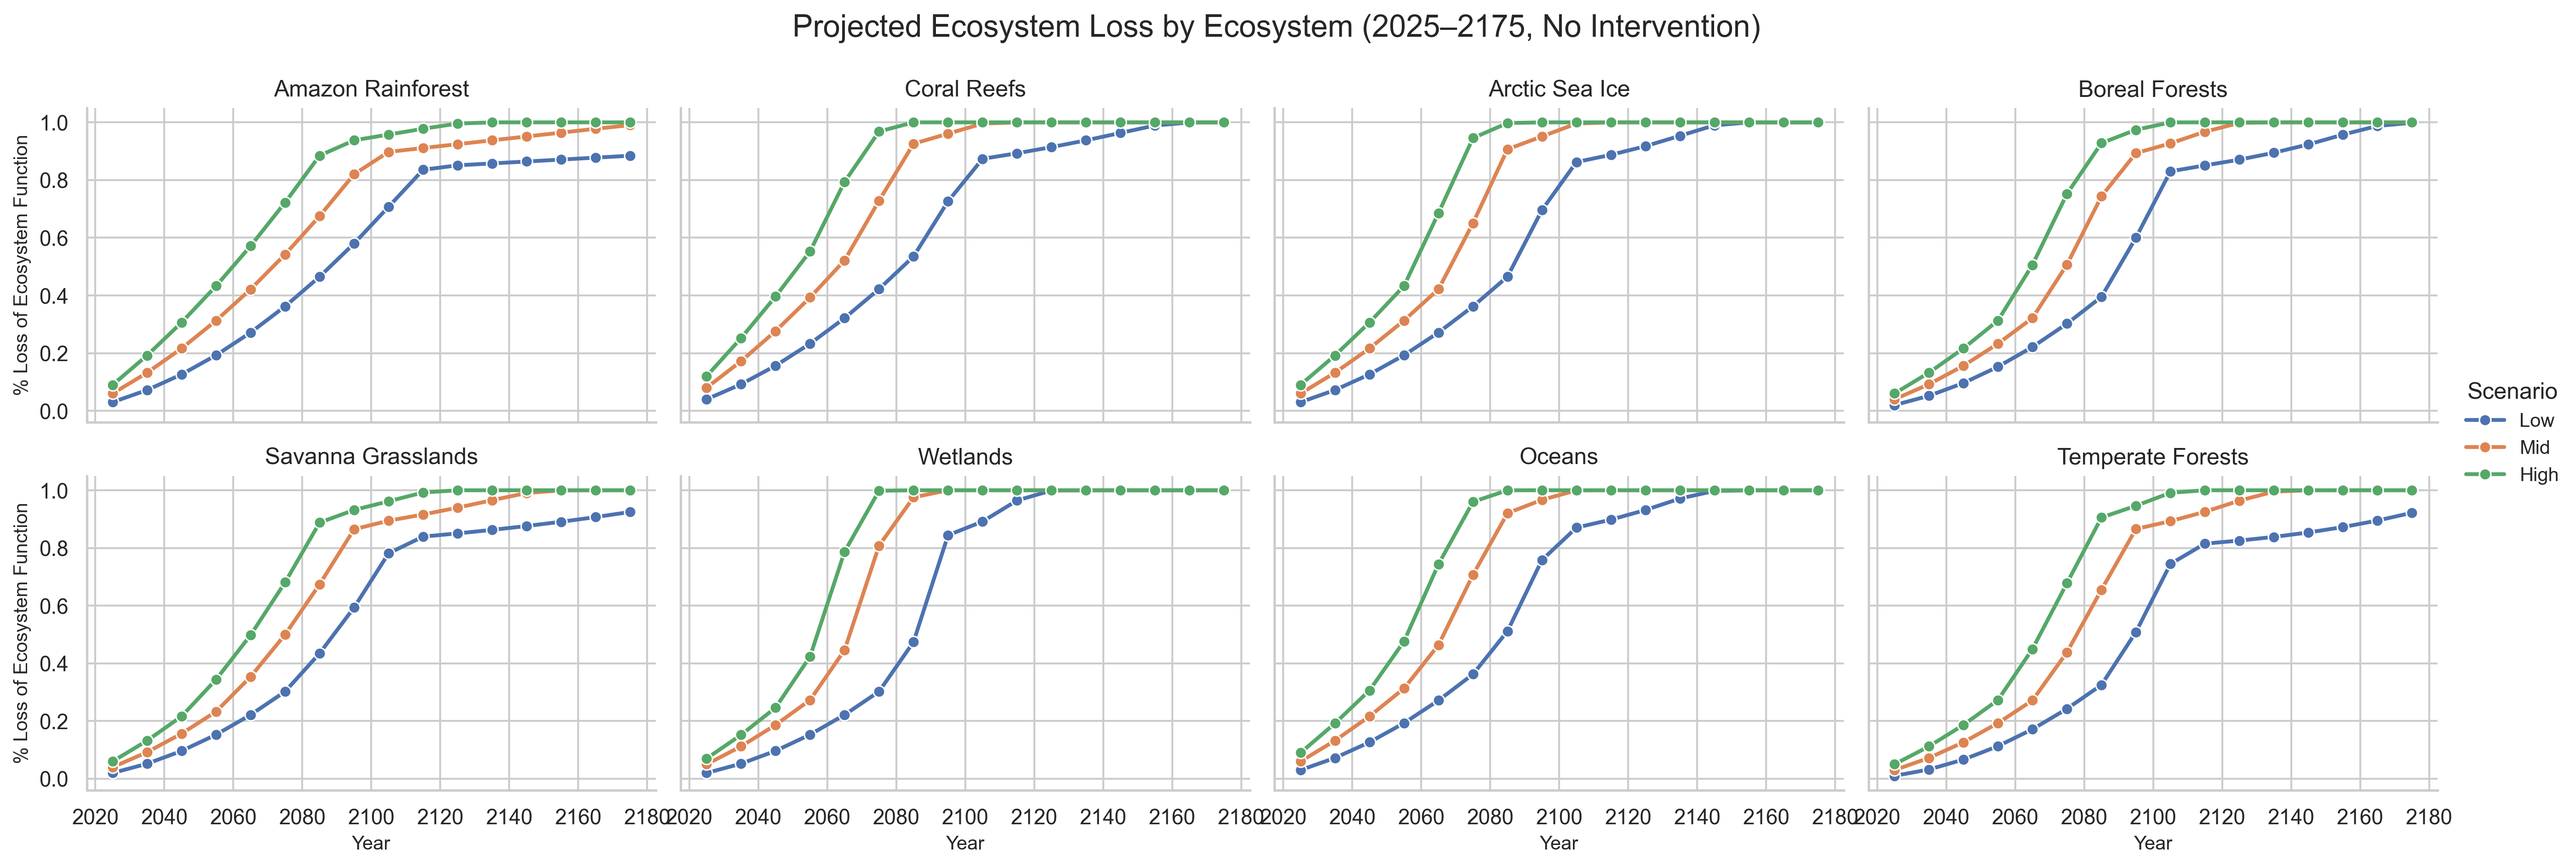
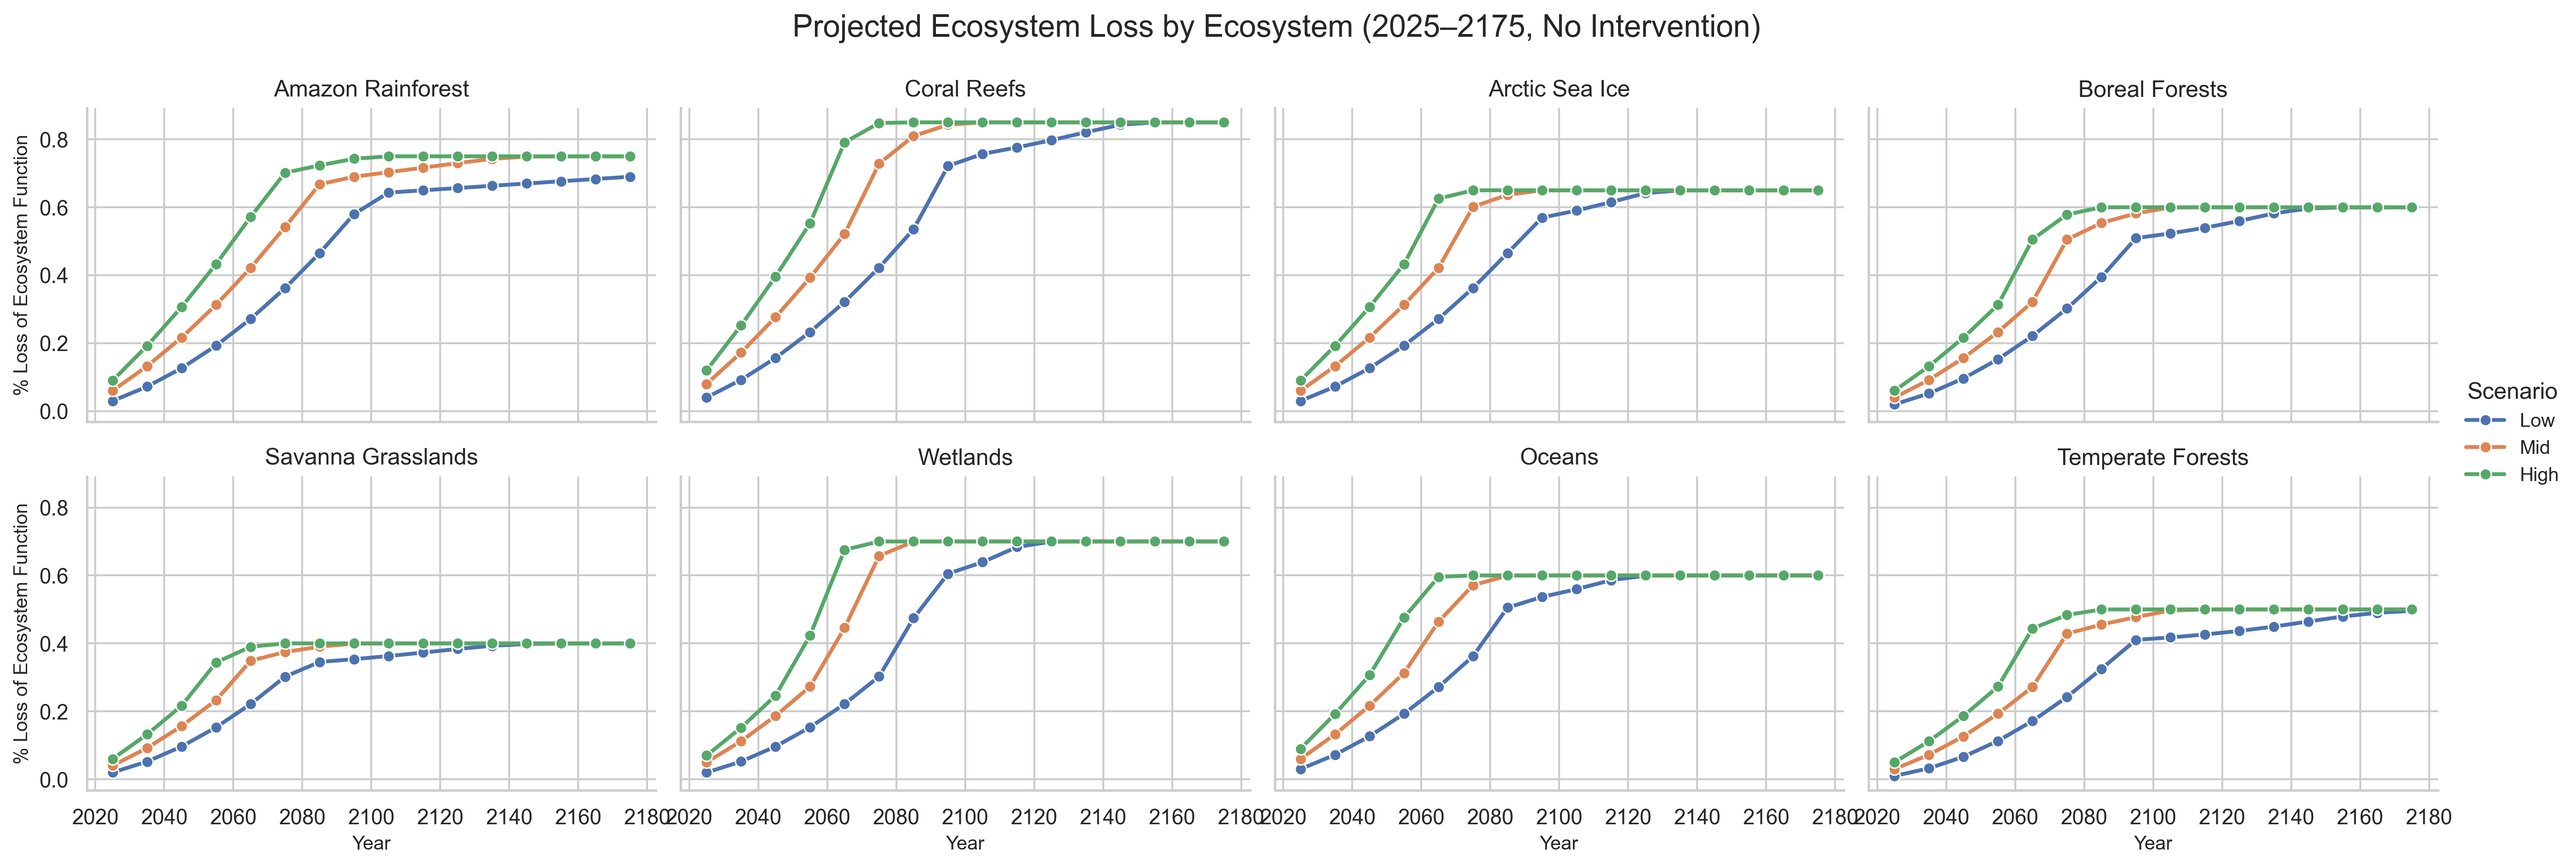
Model update - minor

diff --git a/simulations/ecosystem_cascade.py b/simulations/ecosystem_cascade.py
@@ -46,6 +46,18 @@ nuclear_prob = 1 - np.exp(-nuclear_annual_risk * nuclear_years)
 nuclear_occurs = np.random.binomial(1, nuclear_prob, n_iter)
 nuclear_loss = 0.25
 
+# Add transformation baselines (rough estimates, refine with refs)
+transform_baselines = {
+    'Amazon Rainforest': 0.25,  # Savanna-like
+    'Coral Reefs': 0.15,        # Algae-dominated
+    'Arctic Sea Ice': 0.35,     # Open water
+    'Boreal Forests': 0.40,     # Shrubland
+    'Savanna Grasslands': 0.60, # Degraded but stable
+    'Wetlands': 0.30,           # Drained marsh
+    'Oceans': 0.40,             # Warmer, less diverse
+    'Temperate Forests': 0.50   # Drier woodland
+}
+
 def run_ecosystem_simulation(scenario):
     loss_dict = {eco: np.zeros((n_iter, len(years))) for eco in ecosystems}
     for t, year in enumerate(years):
@@ -59,21 +71,32 @@ def run_ecosystem_simulation(scenario):
             for source_eco, targets in cascade_effects.items():
                 if source_eco != eco and eco in targets and np.mean(loss_dict[source_eco][:, t]) > 0.5:
                     loss_dict[eco][:, t] *= targets[eco]
-            loss_dict[eco][:, t] = np.minimum(loss_dict[eco][:, t], 1.0)
+            # Cap loss at transformed state
+            max_loss = 1.0 - transform_baselines[eco]
+            loss_dict[eco][:, t] = np.minimum(loss_dict[eco][:, t], max_loss)
     return loss_dict
 
 results = {scenario: run_ecosystem_simulation(scenario) for scenario in ['Low', 'Mid', 'High']}
+for scenario in results:
+    for eco in ecosystems:
+        mean_loss_2175 = np.mean(results[scenario][eco][:, -1]) * 100
+        ci_2175 = np.percentile(results[scenario][eco][:, -1], [2.5, 97.5]) * 100
+        print(f"{eco}: Net Loss 2175 = {mean_loss_2175:.1f}%, 95% CI = {ci_2175[0]:.1f}–{ci_2175[1]:.1f}%")
 
 species_weights = {
     'Amazon Rainforest': 0.125, 'Coral Reefs': 0.07, 'Arctic Sea Ice': 0.0075,
     'Boreal Forests': 0.065, 'Savanna Grasslands': 0.06, 'Wetlands': 0.08,
     'Oceans': 0.20, 'Temperate Forests': 0.10
 }
+
 total_loss = {scenario: np.zeros((n_iter, len(years))) for scenario in ['Low', 'Mid', 'High']}
 for scenario in results:
     for t in range(len(years)):
         total_loss[scenario][:, t] = sum(results[scenario][eco][:, t] * species_weights[eco] 
                                         for eco in ecosystems)
+    total_mean_2175 = np.mean(total_loss[scenario][:, -1]) * 100
+    global_mean_2175 = total_mean_2175 * 0.7075
+    print(f"Total Modeled Net Loss 2175: {total_mean_2175:.1f}% (~{global_mean_2175:.1f}% global)")
 
 for scenario in ['Low', 'Mid', 'High']:
     total_mean_2175 = np.mean(total_loss[scenario][:, -1]) * 100
@@ -88,7 +111,7 @@ for scenario in ['Low', 'Mid', 'High']:
         print(f"WARNING: {global_2125:.1f}% global loss by 2125 exceeds 50% - risks to food/health.")
     if global_mean_2175 > 70:
         print(f"WARNING: {global_mean_2175:.1f}% global loss by 2175 exceeds 70% - survival threat.")
-        
+
 plt.figure(figsize=(12, 8))
 sns.set(style="whitegrid")
 for scenario in ['Low', 'Mid', 'High']:
